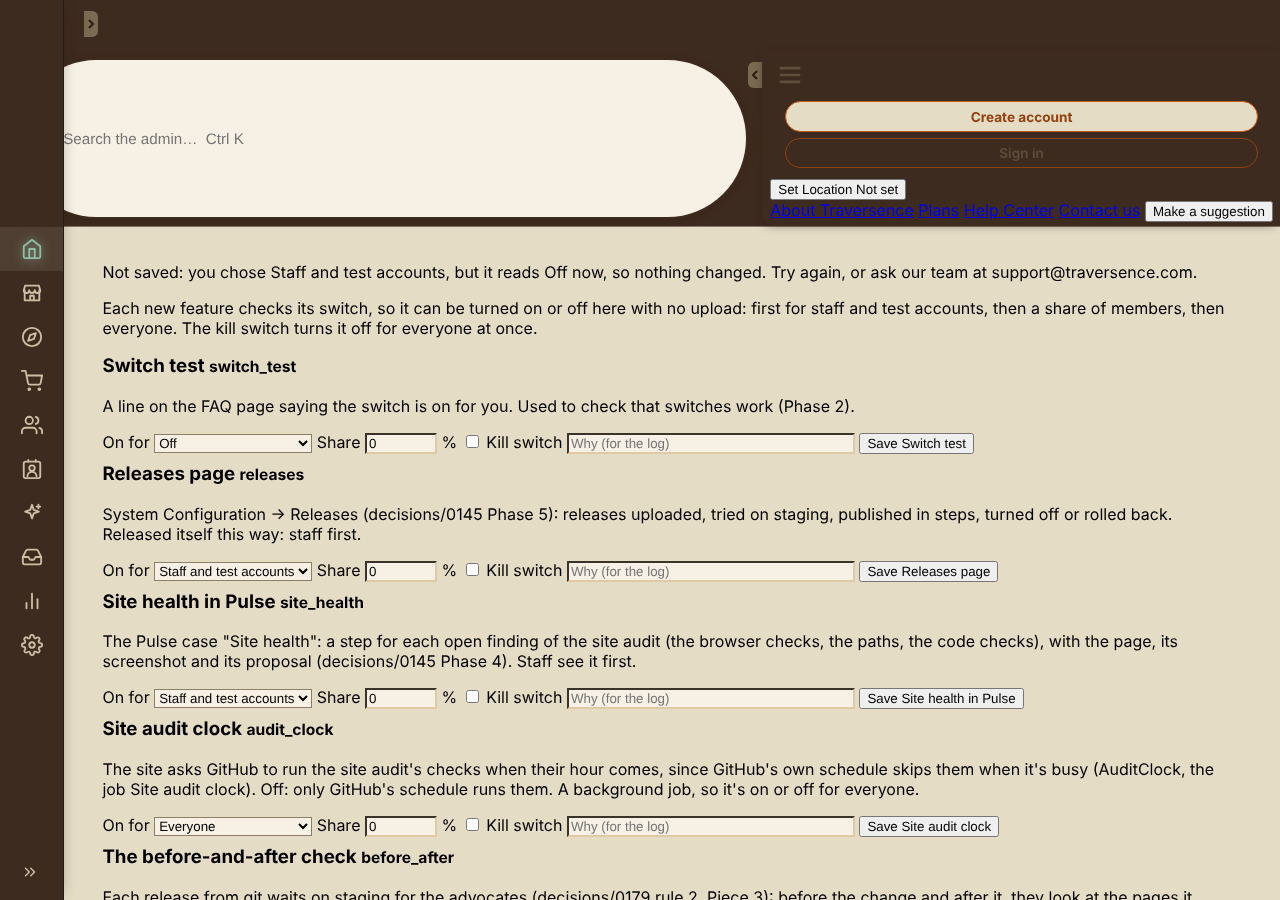
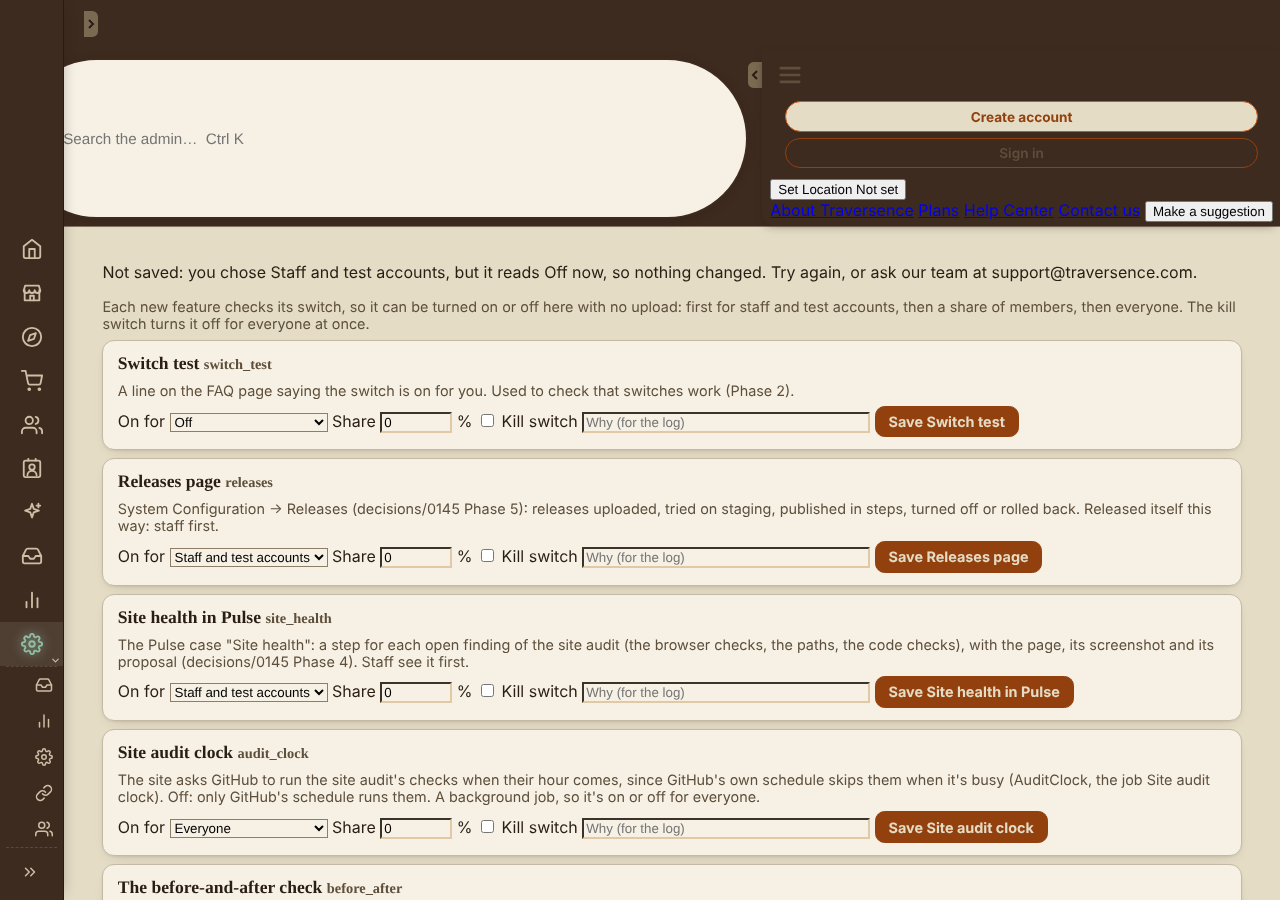
Switches read-back: the select checked at Jason's 1750 (uncovered, one click, choice kept); 21 checks
Claude-Session: https://claude.ai/code/session_01CXLi5kEx1NbamxWYoRxUDh

diff --git a/tools/switch-tests/router.php b/tools/switch-tests/router.php
@@ -9,7 +9,8 @@ foreach (['staff' => ['id' => 1, 'status' => 'active', 'role' => 'owner', 'level
 if ($_SERVER['REQUEST_METHOD'] === 'POST') file_put_contents('' . sys_get_temp_dir() . '/sw-posts.log', json_encode($_POST) . "\n", FILE_APPEND);
 require_once $app . '/ui/app-shell.php'; require_once $app . '/ui/section-rails.php'; require_once $app . '/admin/sections.php';
 $pdo = Database::connection();
-tv_page_start('Switches', ['wide' => true, 'no_crumbs' => true]);
+tv_page_start('Switches', ['wide' => true, 'no_crumbs' => true, 'rail' => tv_admin_rail('config'), 'rail_label' => 'Admin', 'active' => 'config']);
+require $app . '/admin/kit-css.php';
 require_once $app . '/admin/widgets.php'; echo '<div class="ak-body" data-ak-section="config/switches">' . tv_w_section($pdo, Modules::module('config'), 'switches') . '</div>';
 echo '<script src="/js/admin-kit.js"></script>';
 tv_page_end();

diff --git a/handoffs/switch-readback/README.md b/handoffs/switch-readback/README.md
@@ -11,6 +11,6 @@ effect at once" and updated Last changed, but On for still read Off. Built on Sy
   person, so Staff and test accounts reads as off for the job.
 - Cause on staging still open (read-only so far): the form, `Switches::set`, the column (live varchar(8)), the other
   writers and the page's redraw are ruled out. The remaining one is catch-up's no-base path (`StagingSync::catchUpKey`:
-  no base row, live has a row, staging's change unrecorded → `applyLive` overwrites). Waiting on the card's note.
+  no base row, live has a row, staging's change unrecorded → `applyLive` overwrites). Jason's screenshot after the 6:16 save shows the note "Start Agents" and Last changed 6:16, so the select posted off (not catch-up). On the bench the select at 1750, 1280 and 390 is uncovered, opens on one click and keeps a choice; nothing on the page reloads or redraws the form. Staging is https://staging.trvgo.us.
 - Test: `tools/switch-tests/readback.cjs` with `router.php` (live code through the real widget, Chromium at 1280 and 390):
-  choose Everyone, save, reload, still Everyone; a row forced back says Not saved. 12/12.
+  choose Everyone, save, reload, still Everyone; a row forced back says Not saved. 21/21, at 1750 too.
